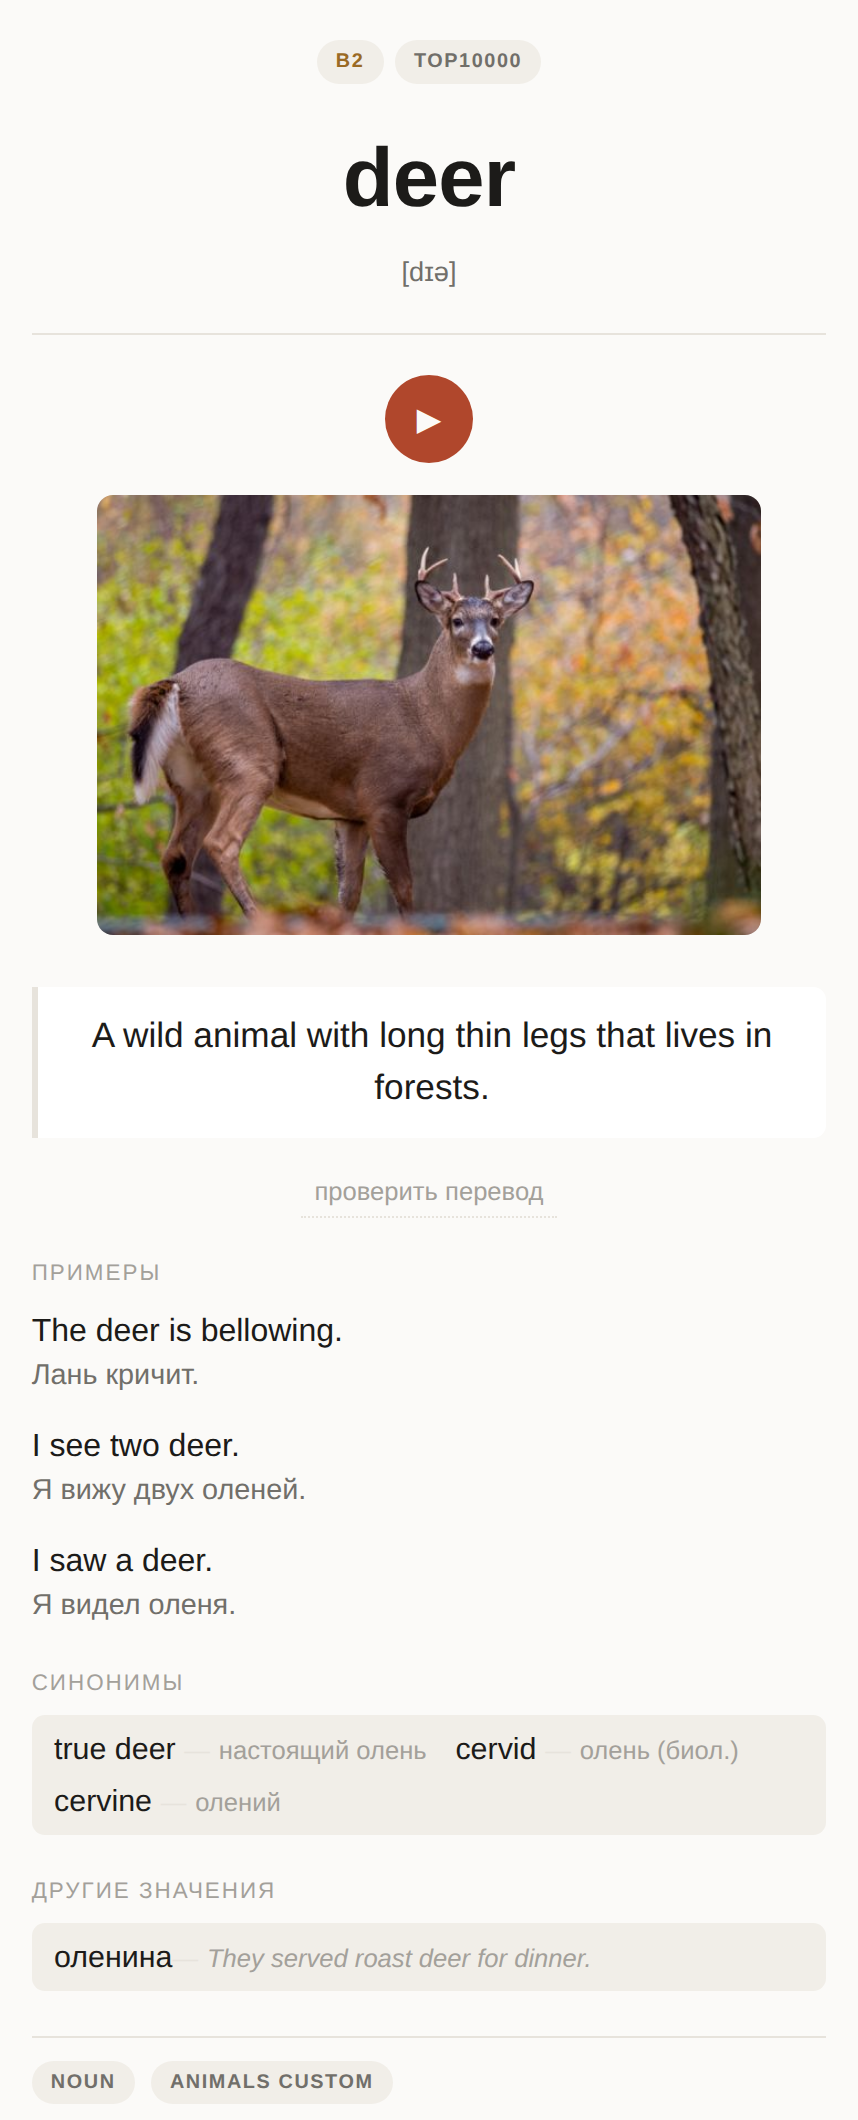
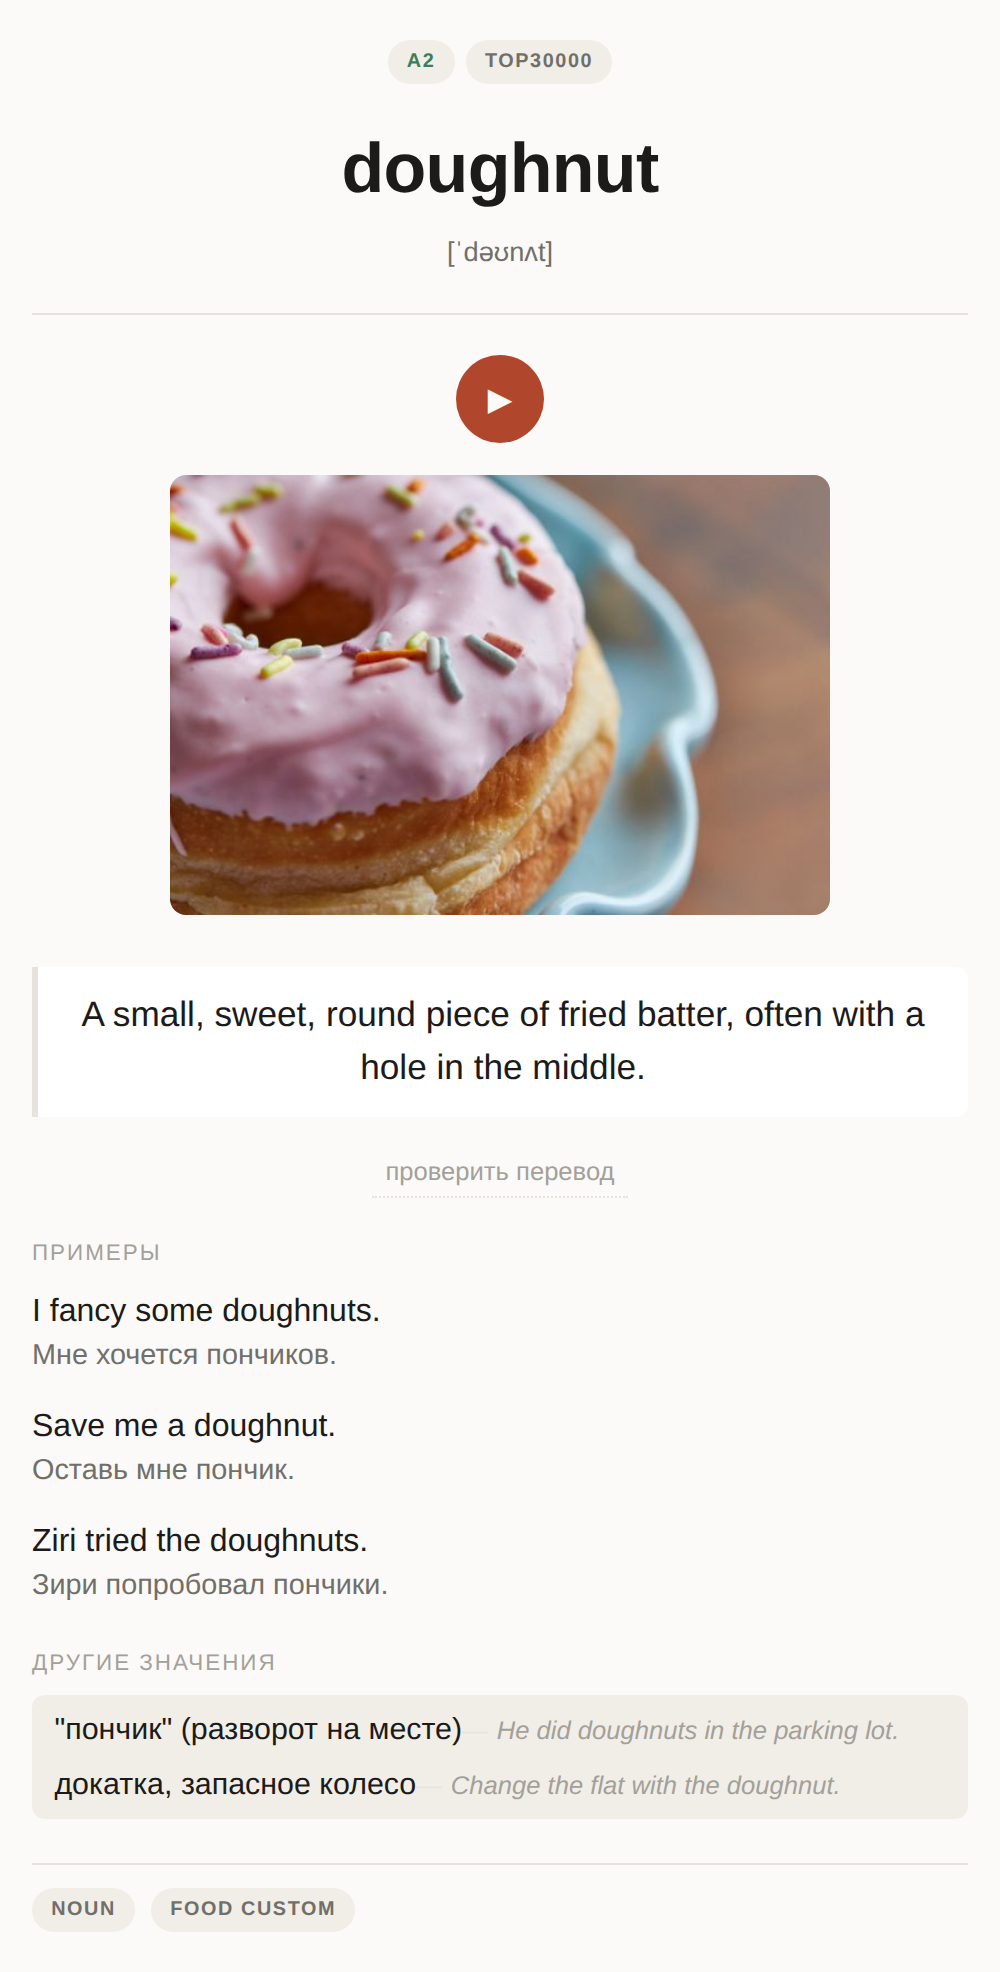
Show a doughnut card in the README
The new example is easier to like than the deer. The captions now name
the right photo and drop a level source the card no longer shows.

diff --git a/README.md b/README.md
@@ -14,15 +14,15 @@ antonyms, a verb's forms, a picture and a recording.
 > Every deck holds only content that may be passed on — see [Sharing a deck](#sharing-a-deck).
 > Built your own deck with this pipeline? Open a pull request and add it to the table.
 
-<img src="docs/card-example.png" alt="The back of a finished card for 'deer'" width="360">
+<img src="docs/card-example.png" alt="The back of a finished card for 'doughnut'" width="360">
 
 Almost nothing on a card is invented. A published dictionary decides what a word means. A
 published graded word list decides how hard it is. A frequency table decides which words you see
 first. A language model does only what no dictionary publishes: it rewrites a hard definition in
 simple words, and it translates.
 
-*The card above: definition from Wiktionary, examples from Tatoeba, level from the CEFR-J
-Wordlist, photo by World Wildlife on StockSnap (CC0).*
+*The card above: definition from Wiktionary, examples from Tatoeba, photo by Foodie Girl on
+StockSnap (CC0).*
 
 ## Which languages work
 
@@ -197,10 +197,10 @@ free. Inside one level the order is by frequency, because a level holds well ove
 and the order inside it decides most of what you actually see. Levels you have finished can be
 named in the config; their cards are suspended rather than deleted and move to a deck of their own.
 
-<img src="docs/card-example.png" alt="The back of a recognition card for 'cottage'" width="360">
+<img src="docs/card-example.png" alt="The back of a recognition card for 'doughnut'" width="360">
 
-The back of a recognition card, as `pipeline.preview` renders it. The photograph is CC0, by Markus
-Spiske on StockSnap.
+The back of a recognition card, as `pipeline.preview` renders it. The photograph is CC0, by Foodie
+Girl on StockSnap.
 
 To see a card without opening Anki:
 
